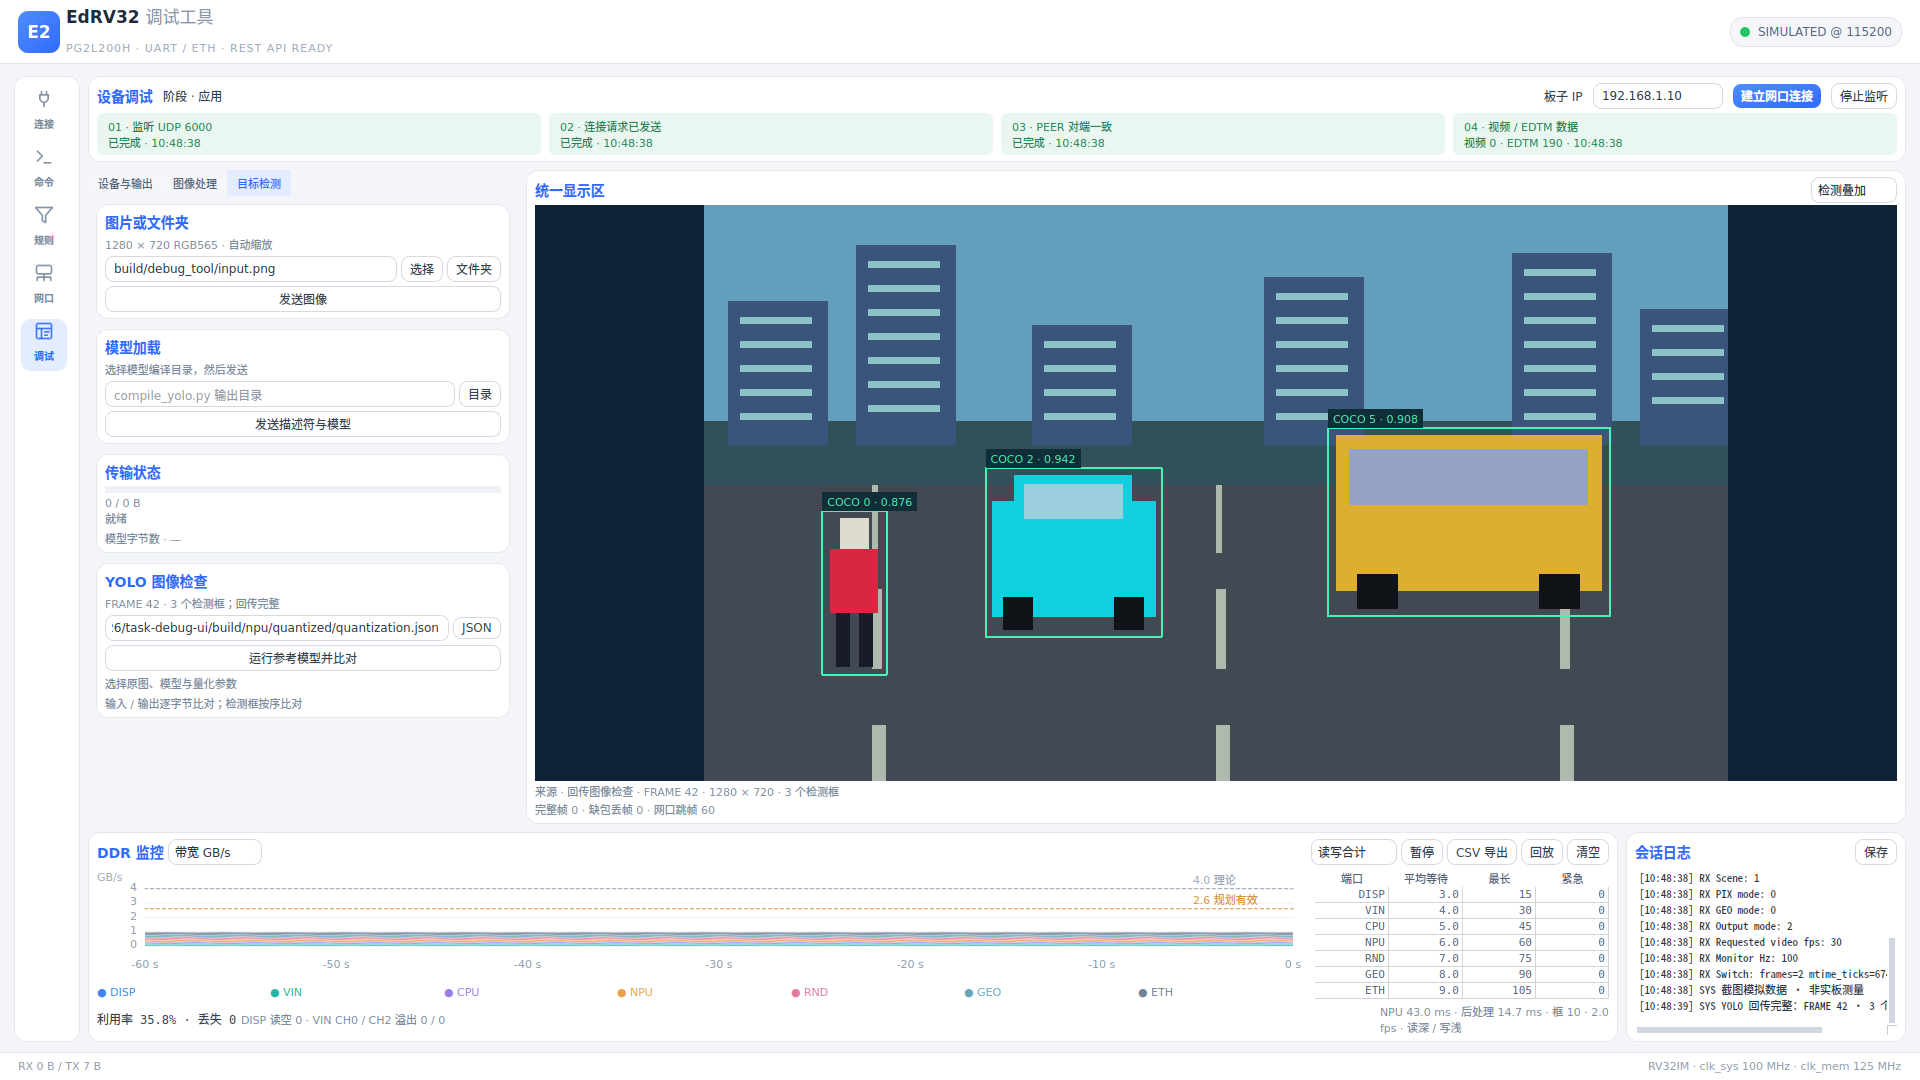
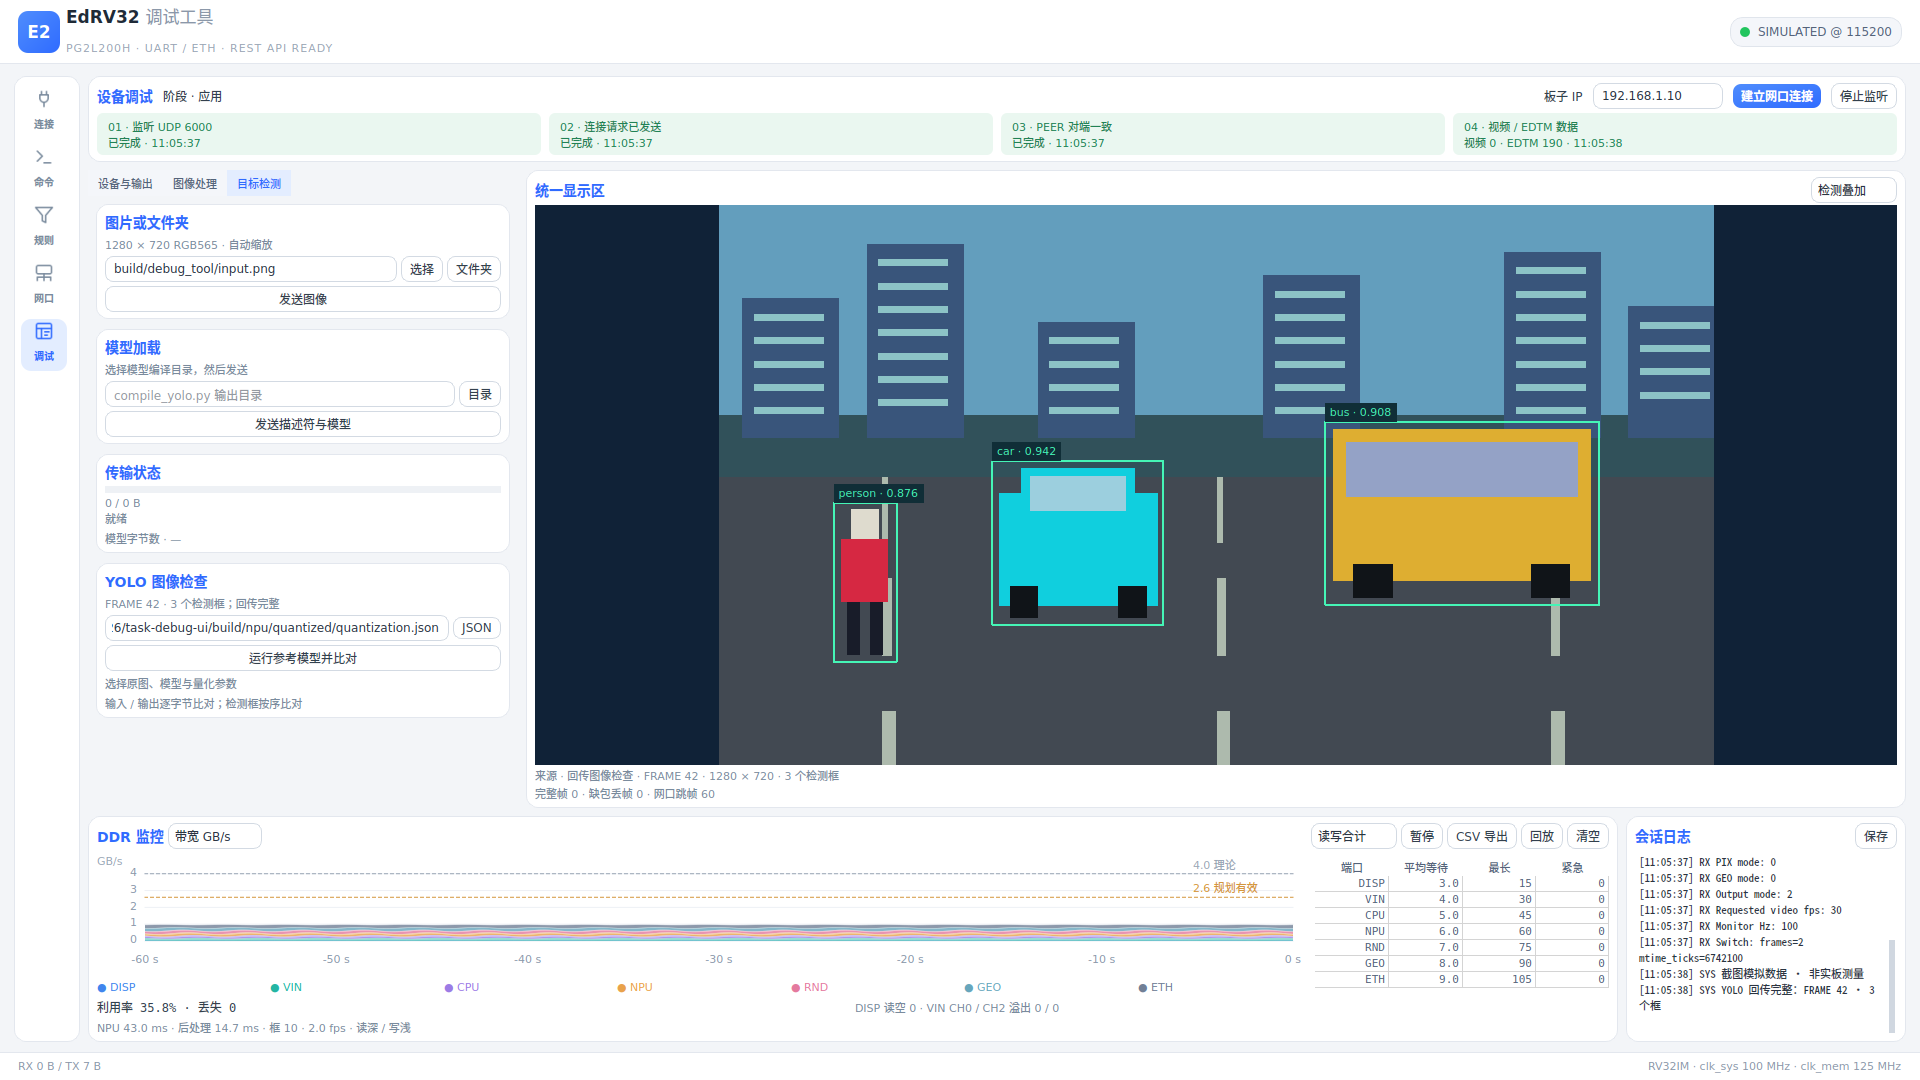
tools: show class names and align wrapped telemetry text

diff --git a/tools/debug_tool/tests/test_ui_revision.py b/tools/debug_tool/tests/test_ui_revision.py
@@ -1,0 +1,71 @@
+"""Task T-UI1-R: shared class names, wrapped logs and intact inference footer."""
+import os
+from pathlib import Path
+import re
+import sys
+import unittest
+
+from tools.debug_tool.core.labels import COCO_NAMES, SOURCE
+from tools.debug_tool.core.engine import SerialEngine
+from tools.debug_tool.core.telemetry import encode
+
+sys.path.insert(0, str(Path(__file__).resolve().parents[1]))
+from telemetry_sim import periodic
+
+
+class UiRevisionTest(unittest.TestCase):
+    @classmethod
+    def setUpClass(cls):
+        os.environ['QT_QPA_PLATFORM'] = 'offscreen'
+        from PySide6.QtWidgets import QApplication
+        cls.app = QApplication.instance() or QApplication([])
+
+    def test_names_are_firmware_table_and_painted(self):
+        from PySide6.QtGui import QImage
+        from PySide6.QtCore import Qt
+        from gui.video import DetectionView, detection_label
+        names = re.findall(r'"([^"]+)"', SOURCE.read_text().split(
+            'class_names[80] = {', 1)[1].split('};', 1)[0])
+        self.assertEqual(list(COCO_NAMES), names)
+        self.assertEqual(len(COCO_NAMES), 80)
+        self.assertEqual([COCO_NAMES[i] for i in (0, 2, 5)], ['person', 'car', 'bus'])
+        view = DetectionView()
+        view.setAttribute(Qt.WA_DeleteOnClose)
+        self.addCleanup(self.dispose, view)
+        view.set_image(QImage(1280, 720, QImage.Format_RGB16),
+                       [(20, 30, 100, 200, i, 900) for i in (0, 2, 5)])
+        view.show()
+        self.app.processEvents()
+        self.assertEqual([detection_label(i, 900) for i in (0, 2, 5)],
+                         ['person · 0.900', 'car · 0.900', 'bus · 0.900'])
+        self.assertFalse(view.grab().isNull())
+
+    def dispose(self, widget):
+        from PySide6.QtCore import QCoreApplication, QEvent
+        widget.close()
+        QCoreApplication.sendPostedEvents(None, QEvent.DeferredDelete)
+        self.app.processEvents()
+
+    def test_long_log_wrap_and_footer_both_sizes(self):
+        from gui.app import MainWindow
+        from PySide6.QtWidgets import QPlainTextEdit
+        window = MainWindow(SerialEngine())
+        from PySide6.QtCore import Qt
+        window.setAttribute(Qt.WA_DeleteOnClose)
+        self.addCleanup(self.dispose, window)
+        window.show()
+        for width, height in ((1366, 768), (1920, 1080)):
+            window.resize(width, height)
+            console = window.soc
+            window.engine.telemetry.ingest(encode(periodic(1, 1, 100)))
+            console.refresh()
+            console.log.appendPlainText('Long log path / ' + 'abcdef' * 150)
+            self.app.processEvents()
+            self.assertEqual(console.log.lineWrapMode(), QPlainTextEdit.WidgetWidth)
+            self.assertGreater(console.log.document().lastBlock().layout().lineCount(), 1)
+            self.assertEqual(console.log.horizontalScrollBar().maximum(), 0)
+            text = console.monitor_note
+            self.assertFalse(text.wordWrap())
+            self.assertGreaterEqual(text.width(), text.fontMetrics().horizontalAdvance(text.text()))
+            self.assertGreaterEqual(text.y(), console.realtime.geometry().bottom())
+            self.assertLess(text.geometry().bottom(), console.monitor_card.height())

diff --git a/tools/debug_tool/gui/soc_console.py b/tools/debug_tool/gui/soc_console.py
@@ -137,7 +137,7 @@ class SocConsole(QWidget):
         self._canvas(row)
         layout.addWidget(self.workspace, 1)
         self.lower = QWidget()
-        self.lower.setFixedHeight(210)
+        self.lower.setFixedHeight(226)
         lower_box = QHBoxLayout(self.lower)
         lower_box.setContentsMargins(0, 0, 0, 0)
         lower_box.setSpacing(8)
@@ -413,14 +413,15 @@ class SocConsole(QWidget):
             text.setStyleSheet(f'color:{color};')
             legend.addWidget(text)
         plot_column.addLayout(legend)
-        metrics = QHBoxLayout()
-        metrics.addWidget(self.monitor_summary)
+        metrics = QGridLayout()
+        metrics.setVerticalSpacing(3)
+        metrics.addWidget(self.monitor_summary, 0, 0)
         self.realtime = label('DISP 读空 0 · VIN CH0 / CH2 溢出 0 / 0', 'note')
-        metrics.addWidget(self.realtime, 1)
+        metrics.addWidget(self.realtime, 0, 1)
         self.monitor_note = label('等待周期：clk_mem', 'note')
-        metrics.addWidget(self.monitor_note)
+        metrics.addWidget(self.monitor_note, 1, 0, 1, 2)
         for value in (self.monitor_summary, self.realtime, self.monitor_note):
-            value.setWordWrap(True)
+            value.setWordWrap(False)
         box.addLayout(metrics)
         row.addWidget(self.monitor_card, 1)
 
@@ -434,7 +435,7 @@ class SocConsole(QWidget):
         self.log = QPlainTextEdit()
         self.log.setReadOnly(True)
         self.log.setMaximumBlockCount(500)
-        self.log.setLineWrapMode(QPlainTextEdit.NoWrap)
+        self.log.setLineWrapMode(QPlainTextEdit.WidgetWidth)
         box.addWidget(self.log, 1)
         row.addWidget(frame)
 

diff --git a/tools/debug_tool/gui/video.py b/tools/debug_tool/gui/video.py
@@ -8,6 +8,12 @@ from PySide6.QtCore import Qt, QRectF
 from PySide6.QtGui import QColor, QImage, QPainter, QPen
 from PySide6.QtWidgets import QWidget
 
+from core.labels import COCO_NAMES
+
+
+def detection_label(class_id, score):
+    return f'{COCO_NAMES[class_id]} · {score / 1000:.3f}'
+
 
 class DetectionView(QWidget):
     def __init__(self):
@@ -43,7 +49,7 @@ class DetectionView(QWidget):
             y = top + y0 * size.height() / 720
             painter.drawRect(QRectF(x, y, (x1 - x0) * size.width() / 1280,
                                    (y1 - y0) * size.height() / 720))
-            text = f'COCO {class_id} · {score / 1000:.3f}'
+            text = detection_label(class_id, score)
             width = painter.fontMetrics().horizontalAdvance(text) + 10
             height = painter.fontMetrics().height() + 6
             bounds = QRectF(min(x, self.width() - width), max(0, y - height), width, height)

diff --git a/tools/debug_tool/core/labels.py b/tools/debug_tool/core/labels.py
@@ -1,0 +1,10 @@
+"""labels.py — shared firmware COCO label table, Task T-UI1-R; host only.
+
+Read the same literal table used by both board overlay implementations.
+"""
+from pathlib import Path
+import re
+
+SOURCE = Path(__file__).resolve().parents[3] / 'sw/apps/demo/overlay_label.c'
+ARRAY = SOURCE.read_text(encoding='utf-8').split('class_names[80] = {', 1)[1].split('};', 1)[0]
+COCO_NAMES = tuple(re.findall(r'"([^"]+)"', ARRAY))
